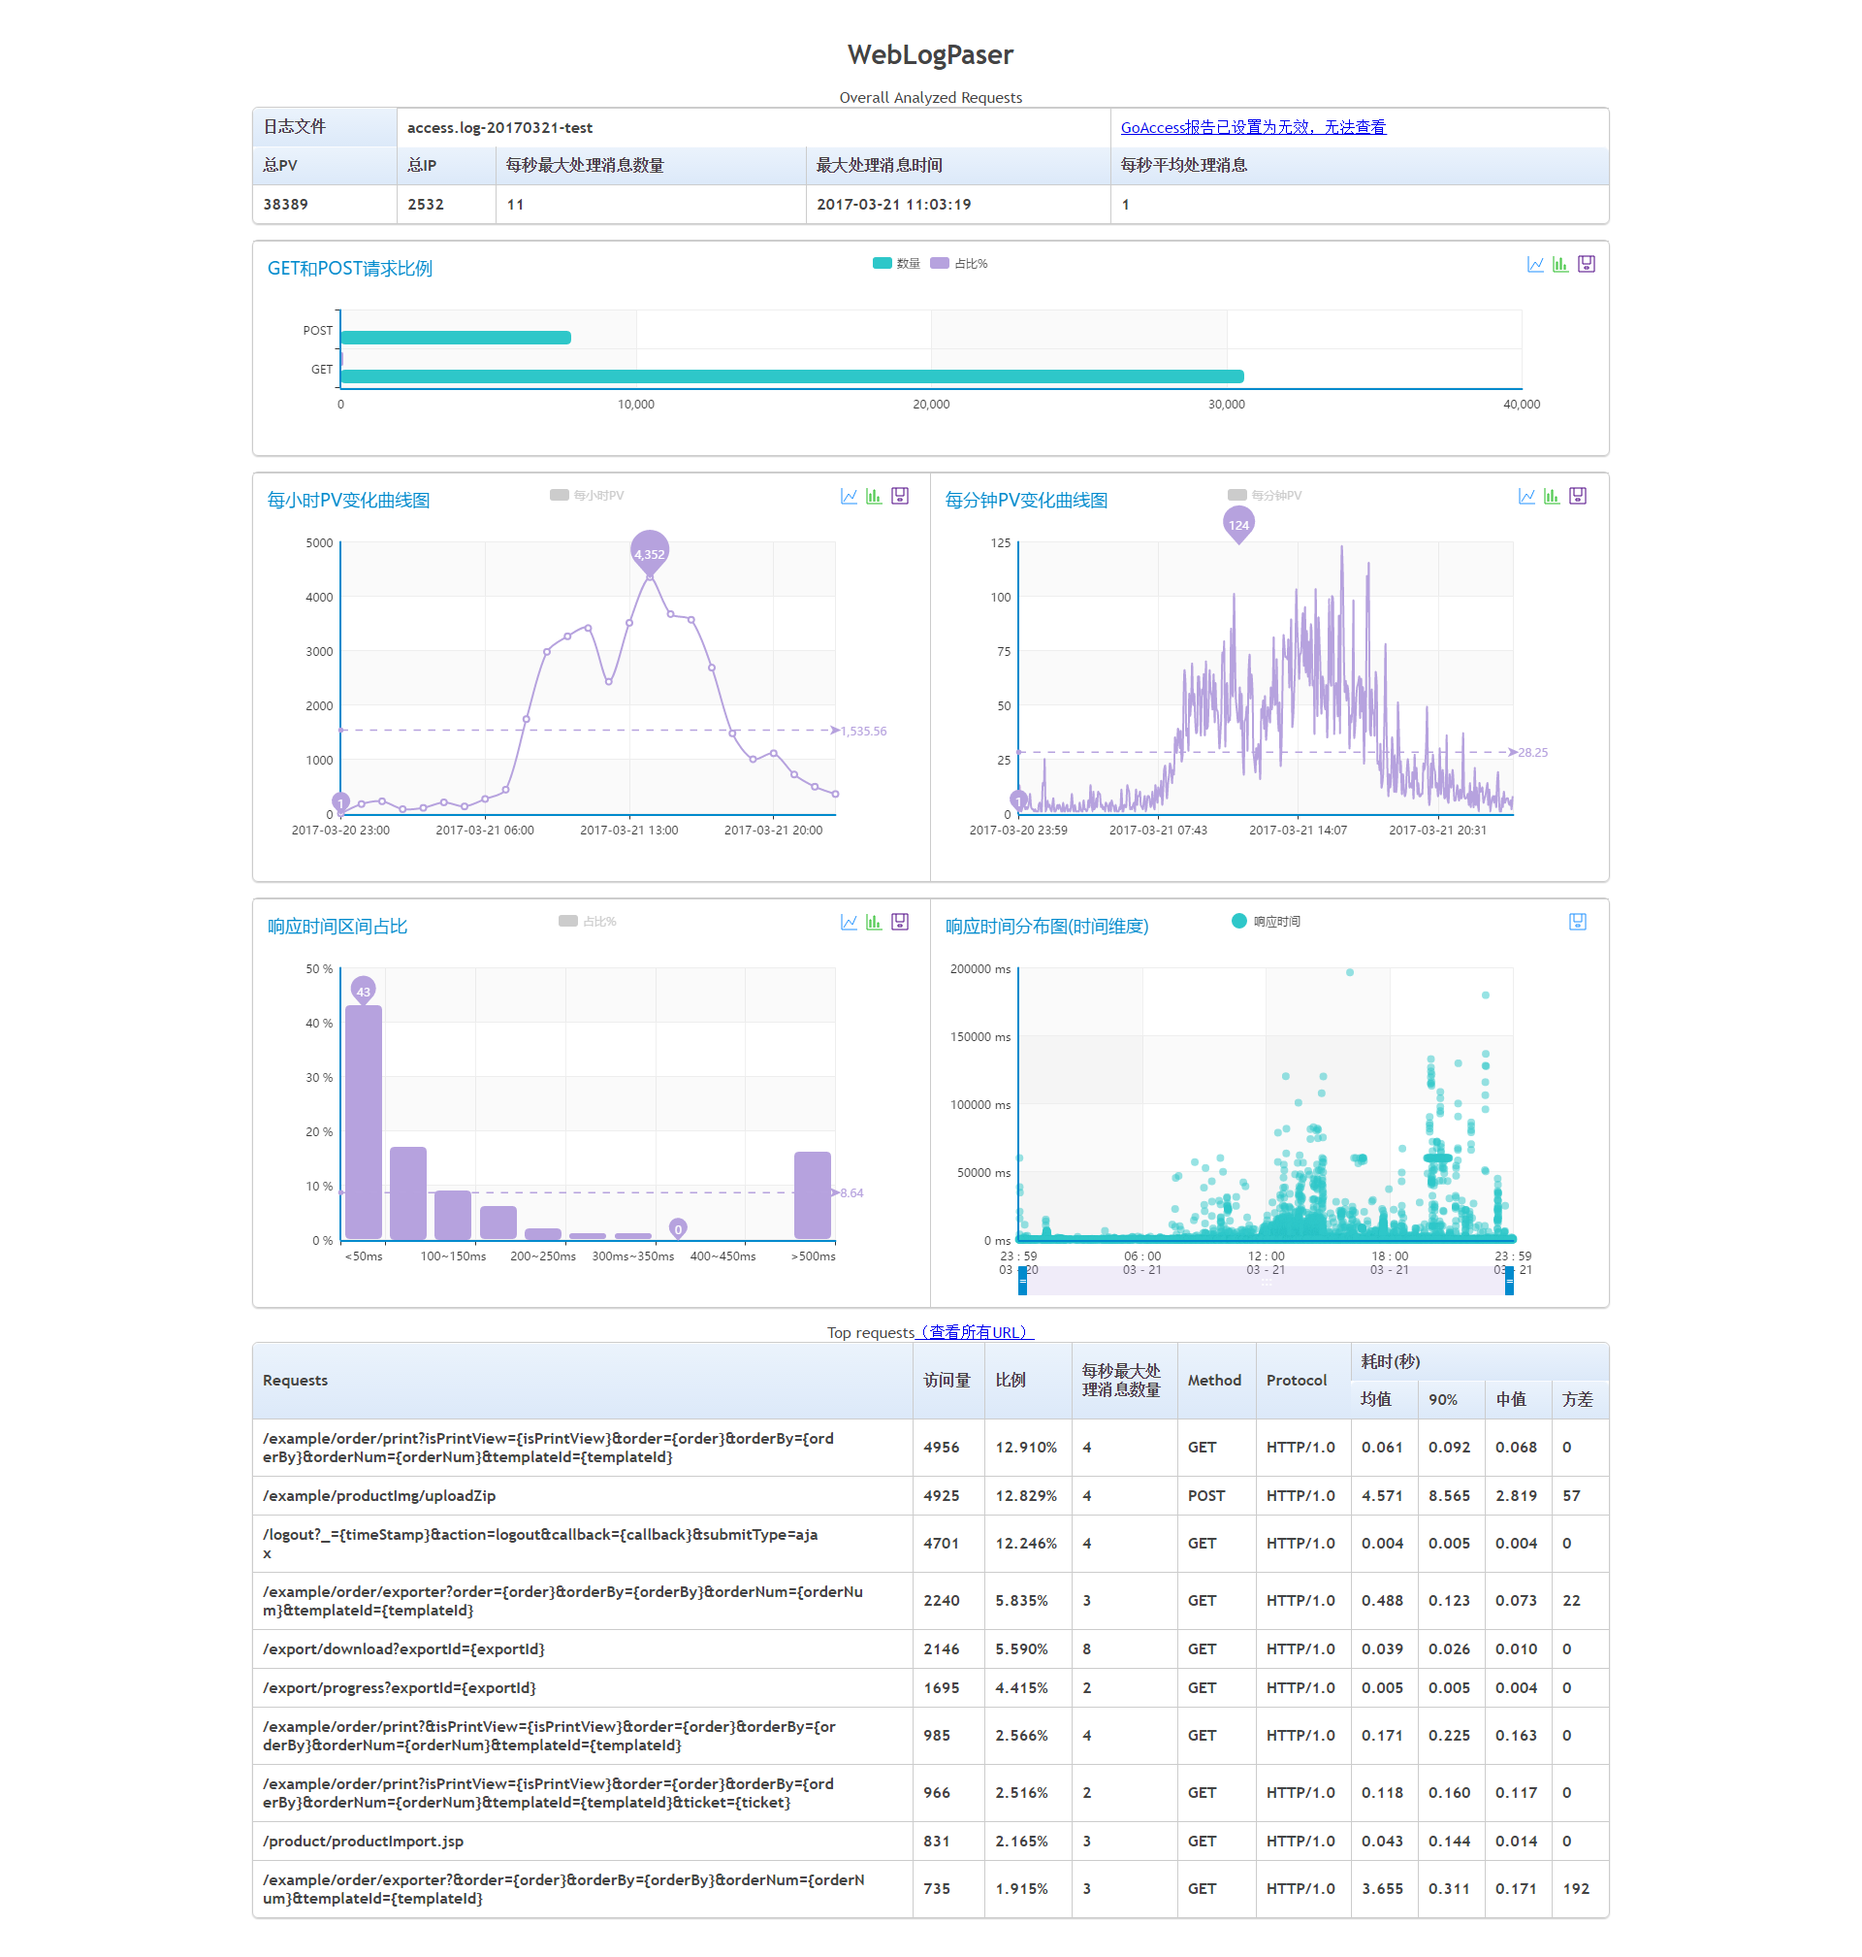
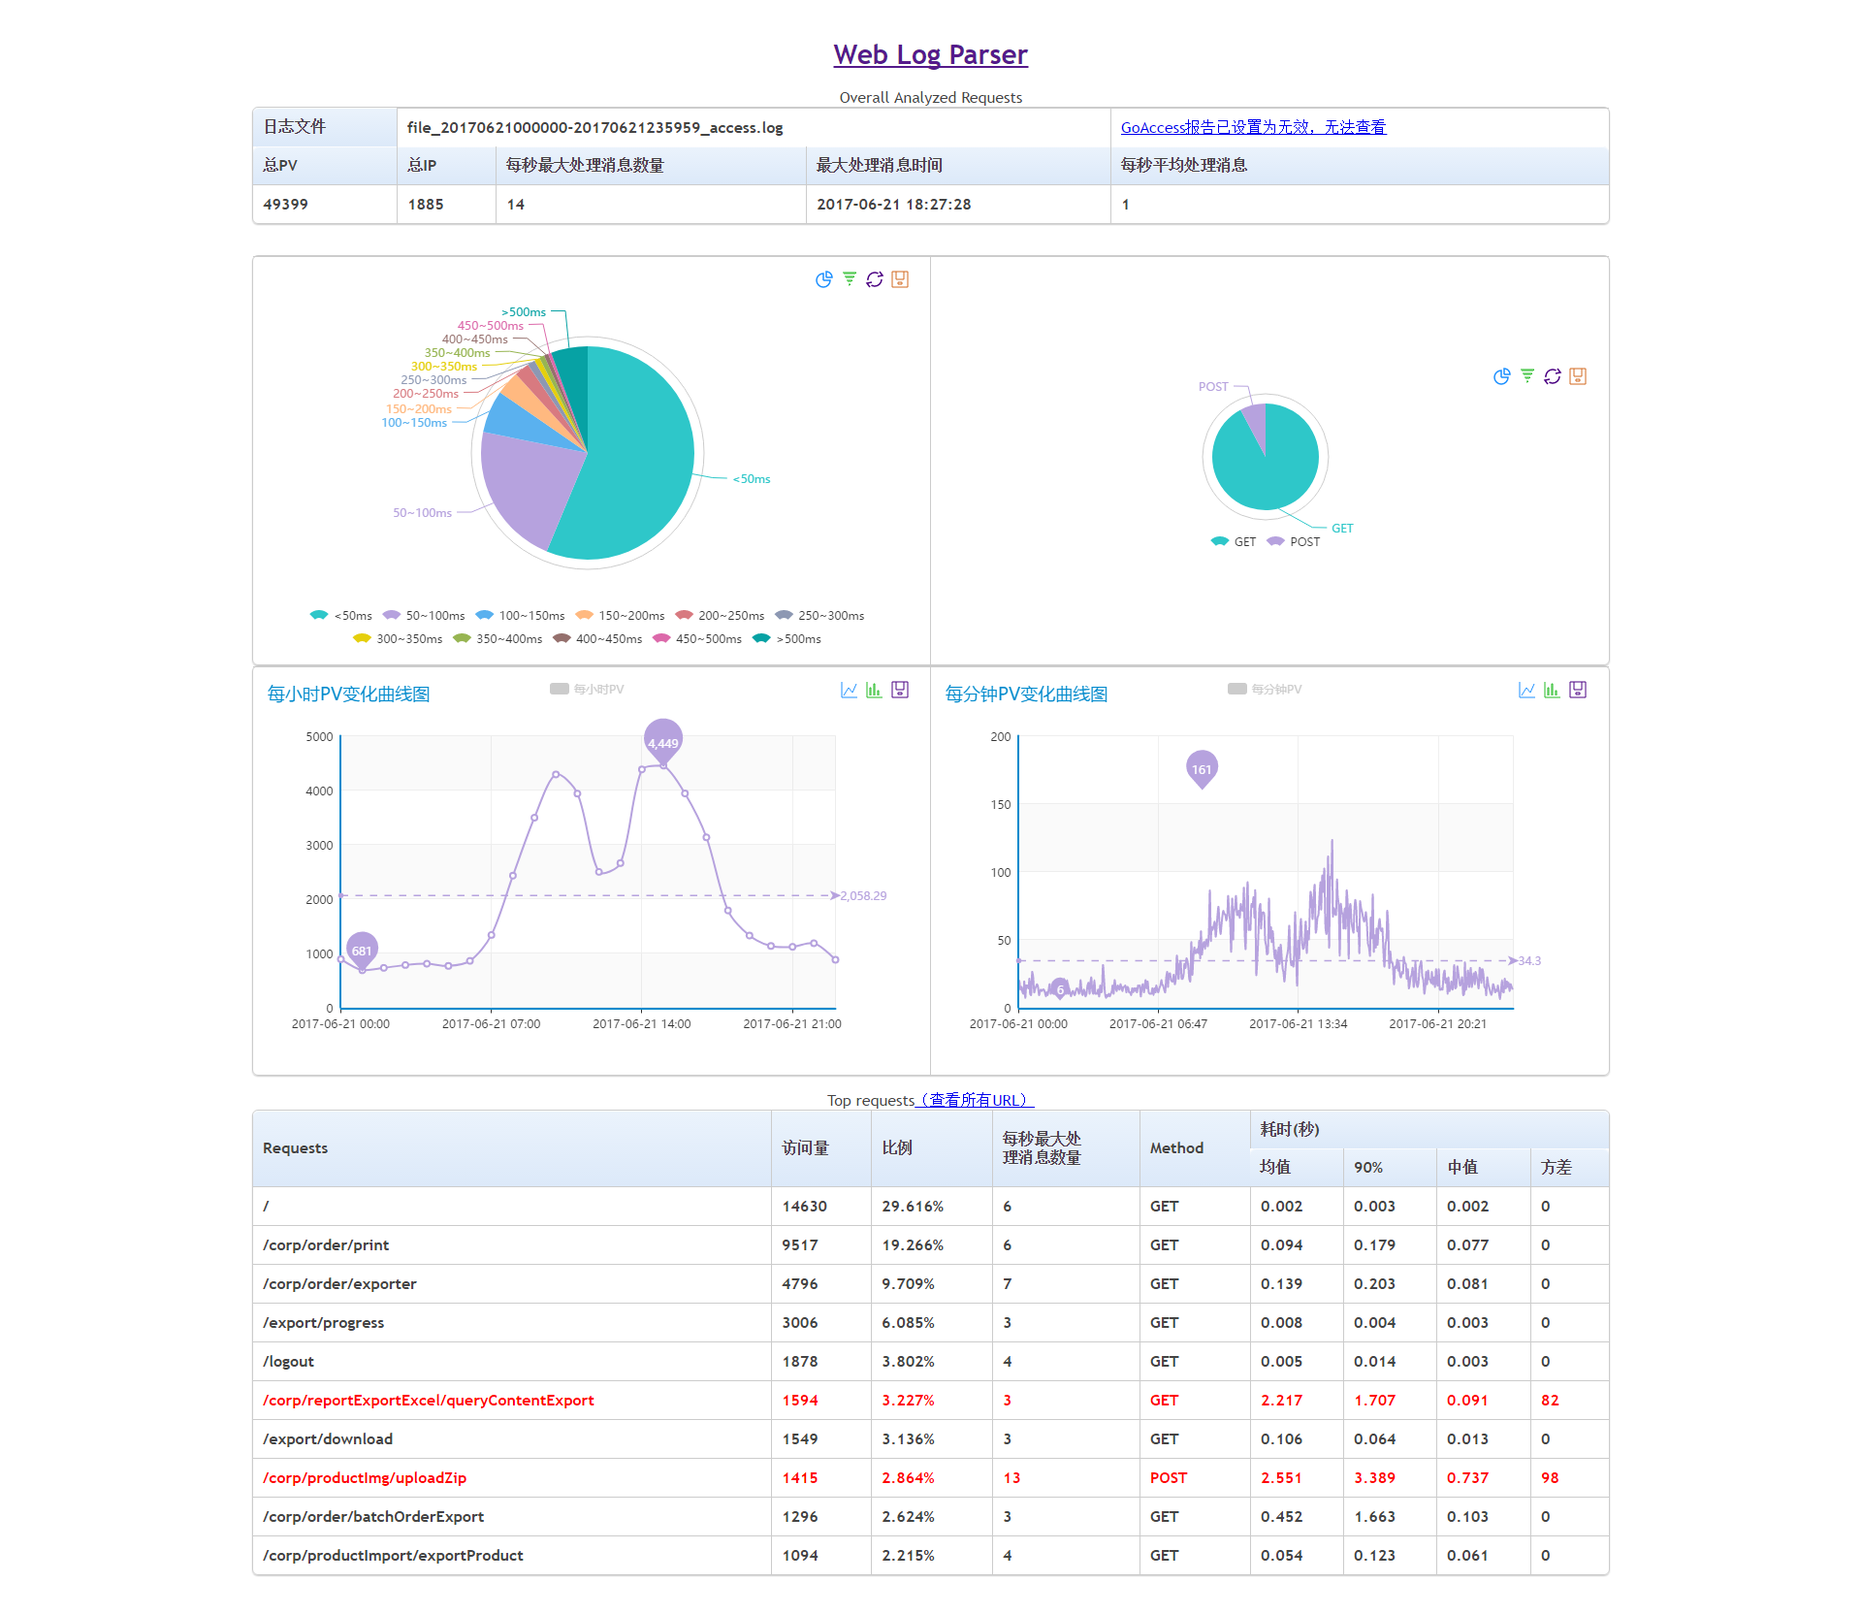
优化报表展示

diff --git a/bin/templates/report.html b/bin/templates/report.html
@@ -31,15 +31,19 @@
 
     <br>
 
-    <table class="bordered">
-      <tr>
-        <td>
-          <div id="methodChart" style="height:200px"></div>
-        </td>
-      </tr>
-    </table>
-
-    <br>
+    {% if cost_time_percentile_flag %}
+      <br>
+      <table class="bordered">
+        <tr>
+          <td>
+            <div id="costPChart" style="height:400px; width: 670px;"></div>
+          </td>
+          <td>
+            <div id="methodChart" style="height:200px; width: 670px;"></div>
+          </td>
+        </tr>
+      </table>
+    {% endif %}
 
     <table class="bordered">
       <tr>
@@ -51,26 +55,17 @@
         </td>
       </tr>
     </table>
+
     {% if second_line_flag %}
-    <table class="bordered">
+      <table class="bordered">
         <tr>
           <td>
             <div id="secondChart" style="height:400px"></div>
           </td>
         </tr>
-    </table>
-    {% endif %}
-
-    {% if cost_time_percentile_flag %}
-      <br>
-      <table class="bordered">
-        <tr>
-          <td>
-            <div id="costPChart" style="height:400px"></div>
-          </td>
-        </tr>
       </table>
     {% endif %}
+
 
     {% if cost_time_flag %}
       <br>
@@ -117,20 +112,22 @@
       {% for url_data in data['url_data_list'] %}
         {% if url_data.cost %}
           {% if url_data.cost_time['avg'] >= cost_time_threshold %}
-          <tr style="color: red">
-            {% else %}
-          <tr>
+            <tr style="color: red">
+              {% else %}
+            <tr>
           {% endif %}
-            <td colspan="6"><strong>{{ url_data.url.split()[1]|replace("&amp;", "&")|wordwrap(width=70, break_long_words=True, wrapstring="<br/>")|safe }}</strong></td>
-            <td><strong>{{ url_data.pv }}</strong></td>
-            <td><strong>{{ url_data.ratio }}%</strong></td>
-            <td><strong>{{ url_data.peak }}</strong></td>
-            <td><strong>{{ url_data.url.split()[0].replace('"', '') }}</strong></td>
-            <td><strong>{{ url_data.cost_time['avg'] }}</strong></td>
-            <td><strong>{{ url_data.cost_time['p9'] }}</strong></td>
-            <td><strong>{{ url_data.cost_time['p5'] }}</strong></td>
-            <td><strong>{{ url_data.cost_time['variance'] }}</strong></td>
-            </tr>
+        <td colspan="6">
+          <strong>{{ url_data.url.split()[1]|replace("&amp;", "&")|wordwrap(width=70, break_long_words=True, wrapstring="<br/>")|safe }}</strong>
+        </td>
+        <td><strong>{{ url_data.pv }}</strong></td>
+        <td><strong>{{ url_data.ratio }}%</strong></td>
+        <td><strong>{{ url_data.peak }}</strong></td>
+        <td><strong>{{ url_data.url.split()[0].replace('"', '') }}</strong></td>
+        <td><strong>{{ url_data.cost_time['avg'] }}</strong></td>
+        <td><strong>{{ url_data.cost_time['p9'] }}</strong></td>
+        <td><strong>{{ url_data.cost_time['p5'] }}</strong></td>
+        <td><strong>{{ url_data.cost_time['variance'] }}</strong></td>
+        </tr>
         {% else %}
           <tr>
             <td colspan="6">
@@ -162,7 +159,8 @@
           'echarts/theme/macarons',
           'echarts/chart/bar',
           'echarts/chart/line',
-          'echarts/chart/scatter'
+          'echarts/chart/scatter',
+          'echarts/chart/pie'
         ],
         function (ec, theme) {
           var hoursChart = ec.init(document.getElementById('hoursChart'), theme);
@@ -347,128 +345,156 @@
             secondChart.setOption(secondOption);
           {% endif %}
 
+
           var methodChart = ec.init(document.getElementById('methodChart'), theme);
 
-          var methodOption = {
-            title: {
-              text: 'GET和POST请求比例',
-              subtext: ''
-            },
+          methodChart.setOption({
             tooltip: {
-              trigger: 'axis'
+              trigger: 'item',
+              formatter: '{a} <br/>{b} : {c} ({d}%)'
+
             },
             legend: {
-              data: ['数量', '占比%']
+              x: 'center',
+              y: 'bottom',
+              data: ['GET', 'POST']
             },
             toolbox: {
               show: true,
               feature: {
-                mark: {show: false},
-                dataView: {show: false, readOnly: false},
-                magicType: {show: true, type: ['line', 'bar']},
-                restore: {show: false},
-                saveAsImage: {show: true}
+                magicType: {
+                  show: true,
+                  type: ['pie', 'funnel'],
+                  option: {
+                    funnel: {
+                      x: '25%',
+                      width: '50%',
+                      funnelAlign: 'left'
+                    }
+                  }
+                },
+                restore: {
+                  show: true,
+                  title: "Restore"
+                },
+                saveAsImage: {
+                  show: true,
+                  title: "Save Image"
+                }
               }
             },
             calculable: true,
-            xAxis: [
-              {
-                type: 'value',
-                boundaryGap: [0, 0.01]
-              }
-            ],
-            yAxis: [
-              {
-                type: 'category',
-                data: ['GET', 'POST']
-              }
-            ],
-            series: [
-              {
-                name: '数量',
-                type: 'bar',
-                data: [{{ method_counts['get'] }}, {{ method_counts['post'] }}]
-              },
-              {
-                name: '占比%',
-                type: 'bar',
-                data: ['{{ method_counts['get_percentile'] }}', '{{ method_counts['post_percentile'] }}']
-              }
-            ]
-          };
-          methodChart.setOption(methodOption);
+            series: [{
+              name: '占比',
+              type: 'pie',
+              radius: '55%',
+              center: ['50%', '48%'],
+              data: [
+                {
+                  value: {{ method_counts['get'] }},
+                  name: 'GET'
+                },
+                {
+                  value: {{ method_counts['post'] }},
+                  name: 'POST'
+                }
+              ]
+            }]
+          });
 
 
           {% if cost_time_percentile_flag %}
             var costPChart = ec.init(document.getElementById('costPChart'), theme);
 
-            var costPOption = {
-              title: {
-                text: '响应时间区间占比',
-                subtext: ''
-              },
+            costPChart.setOption({
               tooltip: {
-                trigger: 'axis'
+                trigger: 'item',
+                formatter: '{a} <br/>{b} : {c} ({d}%)'
               },
               legend: {
-                data: ['占比%']
+                x: 'center',
+                y: 'bottom',
+                data: ['<50ms', '50~100ms', '100~150ms', '150~200ms', '200~250ms', '250~300ms', '300~350ms', '350~400ms', '400~450ms', '450~500ms', '>500ms']
               },
               toolbox: {
                 show: true,
                 feature: {
-                  mark: {show: false},
-                  dataView: {show: false, readOnly: false},
-                  magicType: {show: true, type: ['line', 'bar']},
-                  restore: {show: false},
-                  saveAsImage: {show: true}
+                  magicType: {
+                    show: true,
+                    type: ['pie', 'funnel'],
+                    option: {
+                      funnel: {
+                        x: '25%',
+                        width: '50%',
+                        funnelAlign: 'left'
+                      }
+                    }
+                  },
+                  restore: {
+                    show: true,
+                    title: "Restore"
+                  },
+                  saveAsImage: {
+                    show: true,
+                    title: "Save Image"
+                  }
                 }
               },
               calculable: true,
-              xAxis: [
-                {
-                  type: 'category',
-                  data: ['<50ms', '50~100ms', '100~150ms', '150~200ms', '200~250ms', '250~300ms', '300ms~350ms',
-                    '350~400ms', '400~450ms', '450~500ms', '>500ms']
-                }
-              ],
-              yAxis: [
-                {
-                  type: 'value',
-                  axisLabel: {
-                    formatter: '{value} %'
-                  }
-                }
-              ],
-              series: [
-                {
-                  name: '占比',
-                  type: 'bar',
-                  data: [{{ cost_time_range_percentile['r1p'] }},
-                    {{ cost_time_range_percentile['r2p'] }},
-                    {{ cost_time_range_percentile['r3p'] }},
-                    {{ cost_time_range_percentile['r4p'] }},
-                    {{ cost_time_range_percentile['r5p'] }},
-                    {{ cost_time_range_percentile['r6p'] }},
-                    {{ cost_time_range_percentile['r7p'] }},
-                    {{ cost_time_range_percentile['r8p'] }},
-                    {{ cost_time_range_percentile['r9p'] }},
-                    {{ cost_time_range_percentile['r10p'] }},
-                    {{ cost_time_range_percentile['r11p'] }}],
-                  markPoint: {
-                    data: [
-                      {type: 'max', name: '最大值'},
-                      {type: 'min', name: '最小值'}
-                    ]
+              series: [{
+                name: '占比',
+                type: 'pie',
+                radius: '55%',
+                center: ['50%', '48%'],
+                data: [
+                  {
+                    value: {{ cost_time_range['r1'] }},
+                    name: '<50ms'
                   },
-                  markLine: {
-                    data: [
-                      {type: 'average', name: '平均值'}
-                    ]
+                  {
+                    value: {{ cost_time_range['r2'] }},
+                    name: '50~100ms'
+                  },
+                  {
+                    value: {{ cost_time_range['r3'] }},
+                    name: '100~150ms'
+                  },
+                  {
+                    value: {{ cost_time_range['r4'] }},
+                    name: '150~200ms'
+                  },
+                  {
+                    value: {{ cost_time_range['r5'] }},
+                    name: '200~250ms'
+                  },
+                  {
+                    value: {{ cost_time_range['r6'] }},
+                    name: '250~300ms'
+                  },
+                  {
+                    value: {{ cost_time_range['r7'] }},
+                    name: '300~350ms'
+                  },
+                  {
+                    value: {{ cost_time_range['r8'] }},
+                    name: '350~400ms'
+                  },
+                  {
+                    value: {{ cost_time_range['r9'] }},
+                    name: '400~450ms'
+                  },
+                  {
+                    value: {{ cost_time_range['r10'] }},
+                    name: '450~500ms'
+                  },
+                  {
+                    value: {{ cost_time_range['r11'] }},
+                    name: '>500ms'
                   }
-                }
-              ]
-            };
-            costPChart.setOption(costPOption);
+                ]
+              }]
+            });
+
           {% endif %}
 
           {% if cost_time_flag %}

diff --git a/bin/report.py b/bin/report.py
@@ -35,6 +35,7 @@ def upload_report(data, hours_times, minutes_times):
     minute_pv_peak_time = minute_most_common[0]
     cost_percent = data['cost_time_range_percentile']
     cost_time_threshold = data['cost_time_threshold']
+    cost_range = data['cost_time_range']
     url_data_list = []
 
     for url_data in data['url_data_list']:
@@ -55,9 +56,10 @@ def upload_report(data, hours_times, minutes_times):
             'minute_pv_peak_time': minute_pv_peak_time,
             'cost_percent': cost_percent,
             'cost_percent_range': ['<50ms', '50~100ms', '100~150ms', '150~200ms', '200~250ms', '250~300ms',
-                                   '300ms~350ms', '350~400ms', '400~450ms', '450~500ms', '>500ms'],
+                                   '300~350ms', '350~400ms', '400~450ms', '450~500ms', '>500ms'],
             'cost_time_threshold': cost_time_threshold,
-            'url_data_list': url_data_list}
+            'url_data_list': url_data_list,
+            'cost_range': cost_range}
     headers = {'Content-Type': 'application/json'}
     r = requests.post(config.upload_url, data=json.dumps(data), headers=headers)
     print r.text
@@ -89,7 +91,8 @@ def generate_web_log_parser_report(data):
                                   cost_time_list=data.get('cost_time_list'),
                                   cost_time_flag=data.get('cost_time_flag'),
                                   cost_time_percentile_flag=data.get('cost_time_percentile_flag'),
-                                  cost_time_threshold=data.get('cost_time_threshold'))
+                                  cost_time_threshold=data.get('cost_time_threshold'),
+                                  cost_time_range=data.get('cost_time_range'))
 
     html_file = '../result/report/' + data.get('source_file') + '.html'
     with open(html_file, 'w') as f:

diff --git a/bin/start.py b/bin/start.py
@@ -267,7 +267,7 @@ def parse_log_file(target_file, log_format):
                   'second_hits': times_counter, 'cost_time_list': cost_time_list, 'cost_time_flag': cost_time_flag,
                   'cost_time_range_percentile': cost_time_range_percentile, 'method_counts': method_counts,
                   'cost_time_percentile_flag': cost_time_percentile_flag,
-                  'cost_time_threshold': config.cost_time_threshold}
+                  'cost_time_threshold': config.cost_time_threshold, 'cost_time_range': cost_time_range}
     generate_web_log_parser_report(total_data)
 
     total_data = {'source_file': target_file, 'urls': urls_counter}
